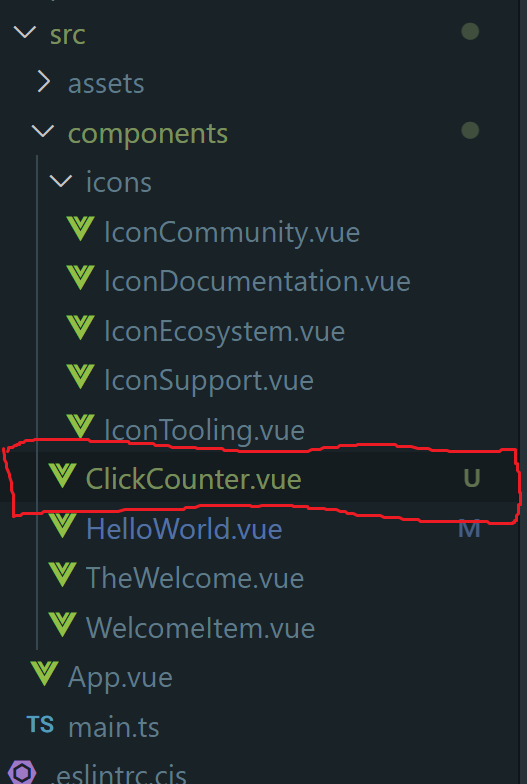
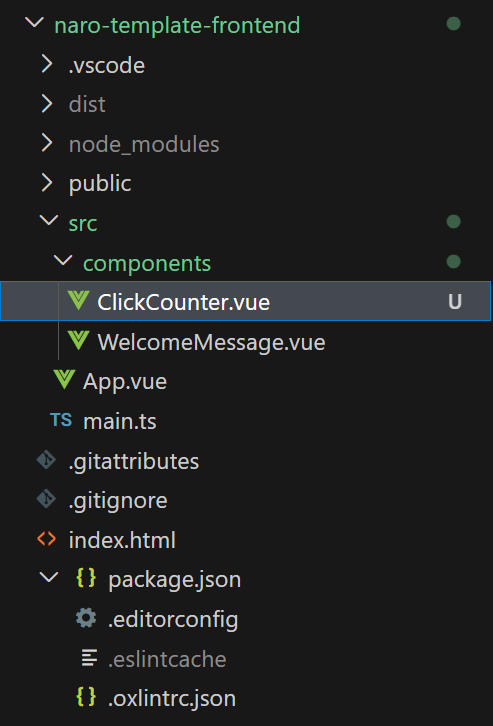
0-Vue入門 を修正

diff --git a/docs/chapter1/section2/src/0/ClickCounter.vue b/docs/chapter1/section2/src/0/ClickCounter.vue
@@ -1,4 +1,3 @@
-<!-- src/components/ClickCounter.vue -->
 <script setup lang="ts">
 import { computed, ref } from 'vue'
 
